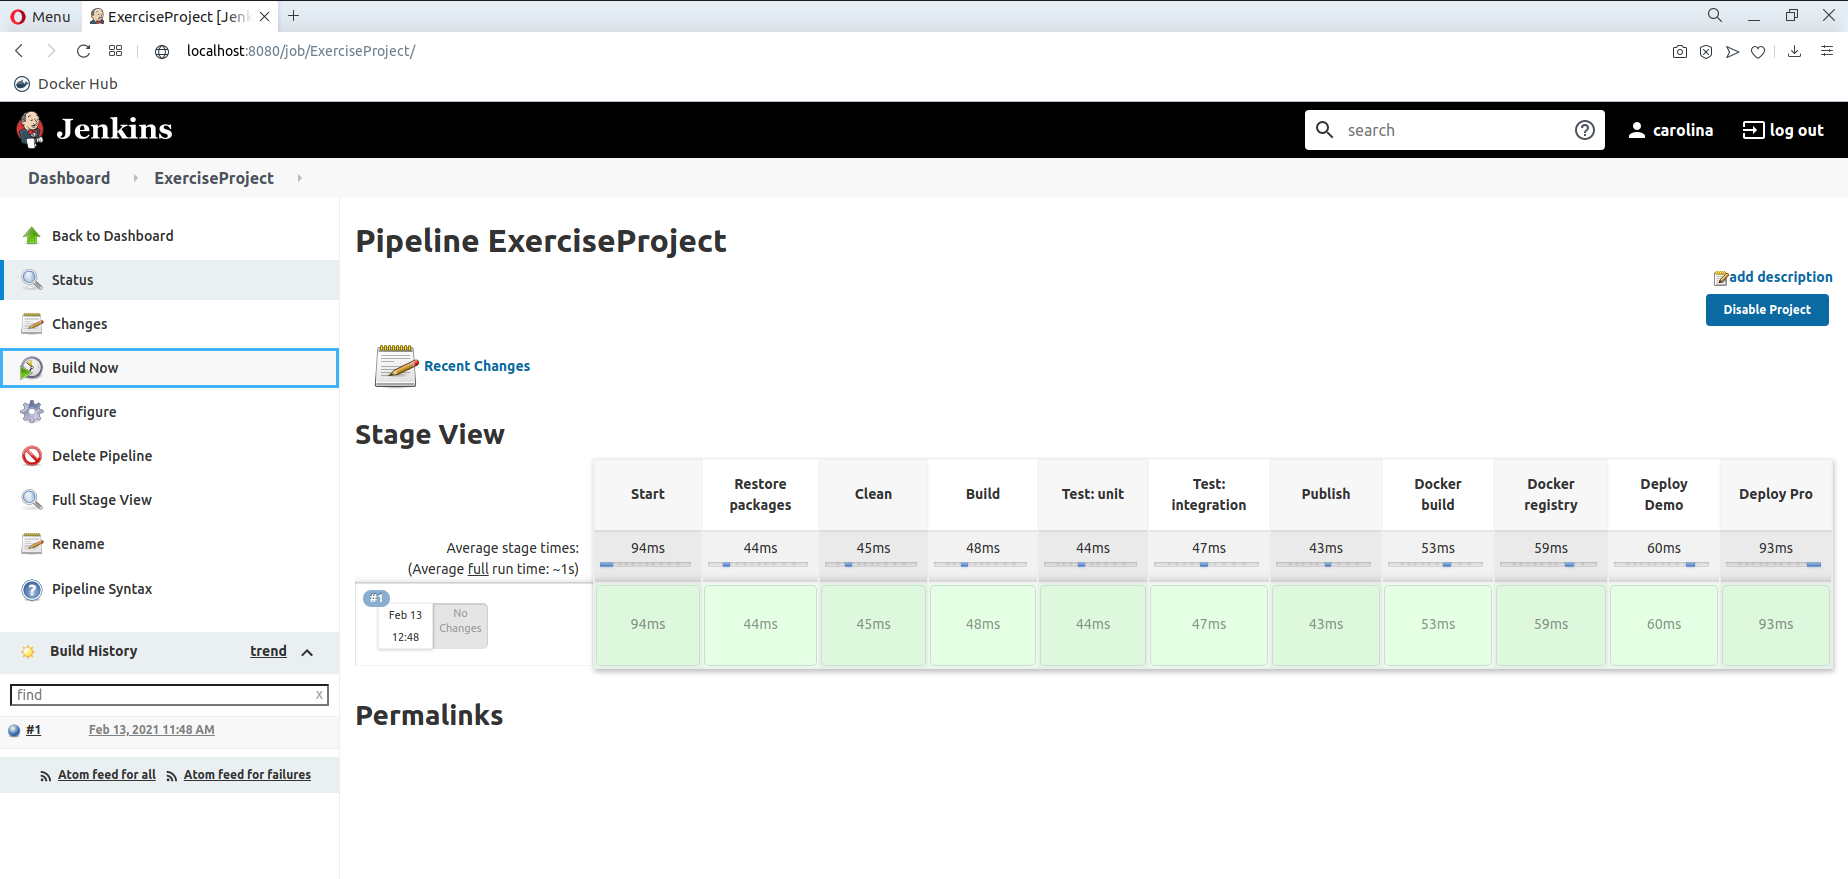
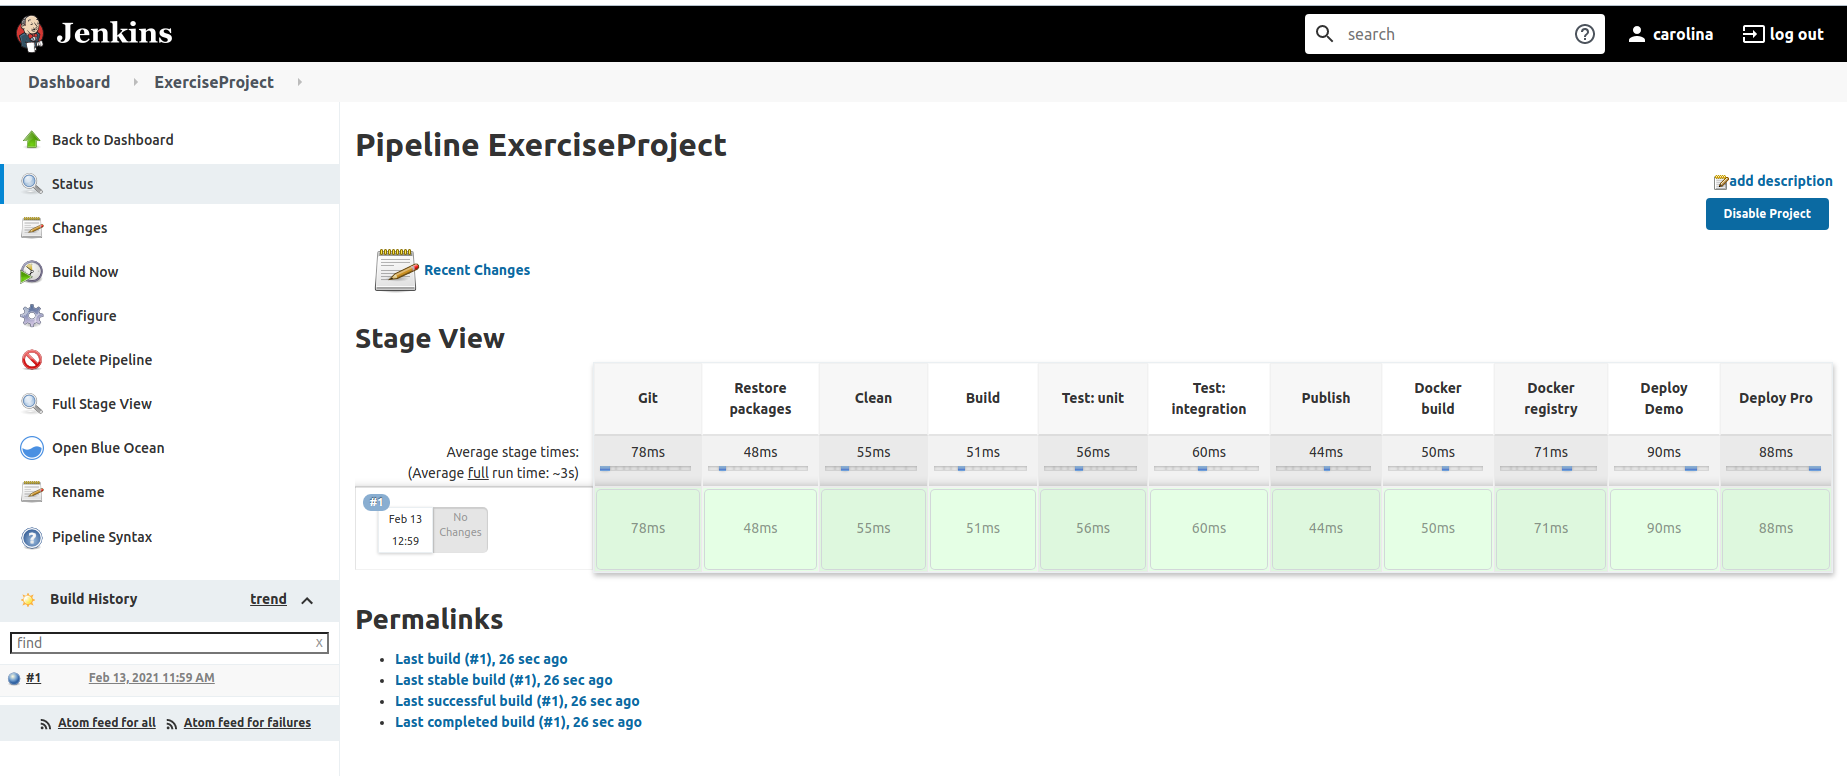
chore: add pipeline diagram from blue-ocean plugin

diff --git a/hw-05/answer_exercise.md b/hw-05/answer_exercise.md
@@ -30,28 +30,29 @@ Fases
 - Continuous Deployment
     - Automatic deploy to environment
 
+![image](./images/17.png)
+
 Stages
-1. Start: podemos empezar con un checkout/clon del código de Git al agente especificado.
-2. Nuget Restore: descargamos/restoreamos paquetes NuGet especificados en el proyecto.
+1. Git: podemos empezar con un checkout/clon del código de Git al agente especificado.
+2. Restore packages: descargamos/restoreamos paquetes NuGet especificados en el proyecto.
 3. Clean: limpiamos la solución.
 4. Build: construimos la solución con comandos CLI dotnet. Se guardarán dlls y otros archivos del build en bin\Debug\netcoreapp2.x. En este stage también se podría añadir SonarQube para automatizar el code quality performance testing.
-5. UnitTests: pasamos los tests funcionales de la solución con dotnet test o MSTest. Para el proyecto de test se usa xUnit, con herramientas como NSUbstitute, FluentAssertions y ApprovalTests.
-6. IntegrationTests: de la misma manera, pasamos los tests de integración.
+5. Test-unit: pasamos los tests funcionales de la solución con dotnet test o MSTest. Para el proyecto de test se usa xUnit, con herramientas como NSUbstitute, FluentAssertions y ApprovalTests.
+6. Test-integration: de la misma manera, pasamos los tests de integración.
 7. Publish: build + packing de la aplicación y todas sus dependencias en una carpeta preparada para publicar.
-8. Docker build: construimos la imagen a partir del Dockerfile (multi-stage).
+8. Docker build: construimos la imagen a partir del Dockerfile (multi-stage)
 - Stage 1 - Construimos la app y situamos los archivos correspondientes
-    - Partimos de la imagen mcr.microsoft.com/dotnet/core/sdk:3.1
+    - Partimos de la imagen especificada.
     - Copiamos el archivo .cspoj del proyecto y ejecutamos un restore de las dependencias.
     - Copiamos el resto de archivos y construimos el proyecto, poniéndolo todo en el directorio especificado.
 - Stage 2 - Run
-    - Partimos de la imagen mcr.microsoft.com/dotnet/core/sdk:3.1
+    - Partimos de la imagen especificada.
     - Creamos el working directory ExerciseProject
     - Copiamos los archivos del build del primer stage en dicho directorio.
     - Especificamos el entrypoint para ejecutar la app al iniciar el contenedor.
 9. Docker registry: hacemos login a DockerHub y subimos la imagen al repositorio.
-10. Deploy: deployamos al entorno de Kubernetes.
-
-Extras: notificación por slack, ansicolor, libreria externa para usar métodos de construcción, testing, etc.
+10. Deploy Demo: deployamos al entorno de demo en Kubernetes.
+11. Deploy Pro: deployamos al entorno deproducción en Kubernetes.
 
 ## Simulation
 
